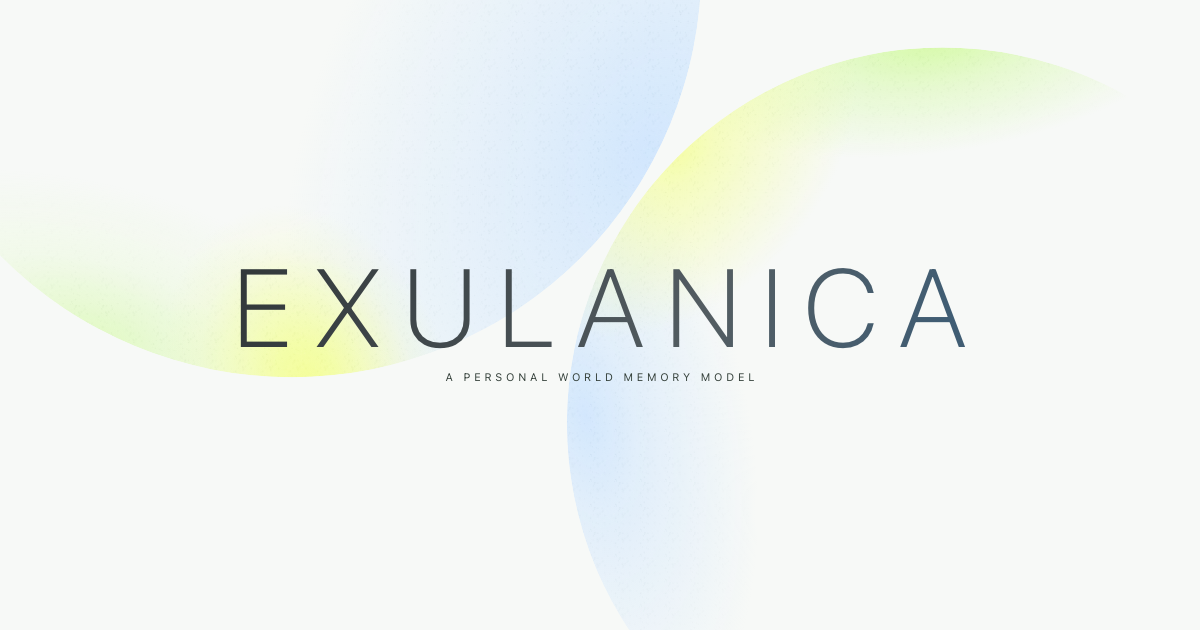
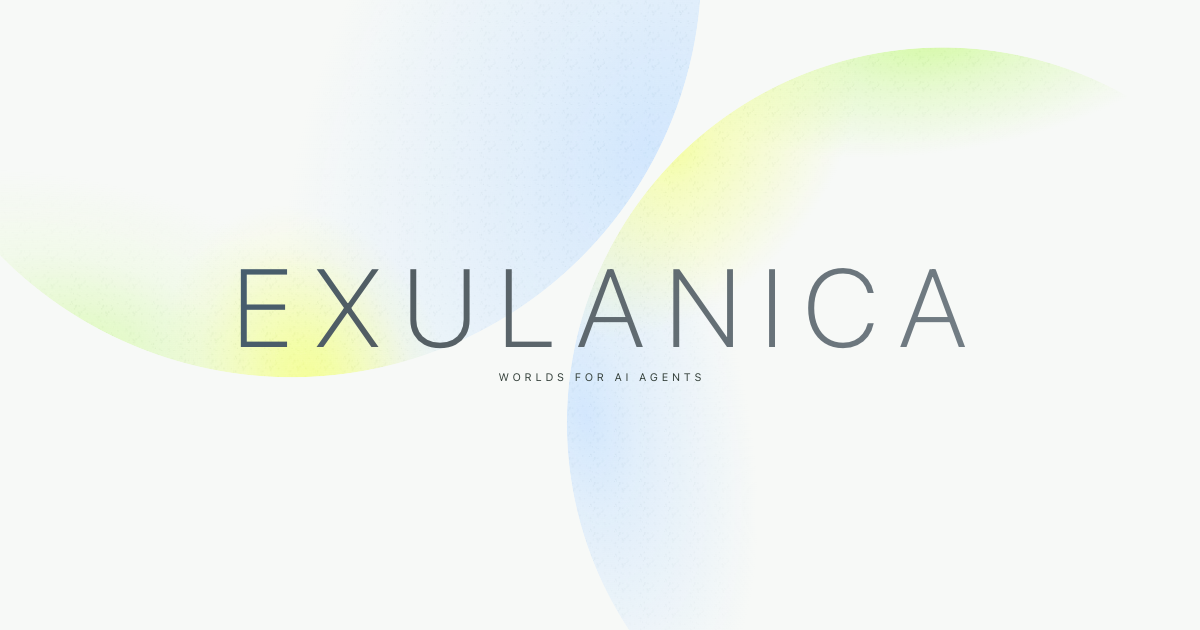
Describe the landing page and its share image as Worlds for AI agents

diff --git a/web/packages/landing/index.html b/web/packages/landing/index.html
@@ -12,7 +12,7 @@
     <title>Exulanica</title>
     <meta
       name="description"
-      content="Exulanica is a personal world memory model. It gathers the photographs, people, places, and moments of a life into one world."
+      content="Exulanica: worlds for AI agents. Build a world, let open models decide what its people do, then swap a model and run the same saved world again to see the difference."
     />
 
     <!--
@@ -30,7 +30,7 @@
     <meta property="og:title" content="Exulanica" />
     <meta
       property="og:description"
-      content="Exulanica is a personal world memory model. It gathers the photographs, people, places, and moments of a life into one world."
+      content="Exulanica: worlds for AI agents. Build a world, let open models decide what its people do, then swap a model and run the same saved world again to see the difference."
     />
     <meta property="og:image" content="https://exulanica.com/og-image.png" />
     <meta property="og:image:type" content="image/png" />
@@ -38,13 +38,13 @@
     <meta property="og:image:height" content="630" />
     <meta
       property="og:image:alt"
-      content="The Exulanica wordmark over two soft overlapping fields of blue, yellow, and green light."
+      content="The Exulanica wordmark and the words Worlds for AI agents over two soft overlapping fields of blue, yellow, and green light."
     />
     <meta name="twitter:card" content="summary_large_image" />
     <meta name="twitter:title" content="Exulanica" />
     <meta
       name="twitter:description"
-      content="Exulanica is a personal world memory model. It gathers the photographs, people, places, and moments of a life into one world."
+      content="Exulanica: worlds for AI agents. Build a world, let open models decide what its people do, then swap a model and run the same saved world again to see the difference."
     />
     <meta name="twitter:image" content="https://exulanica.com/og-image.png" />
   </head>
